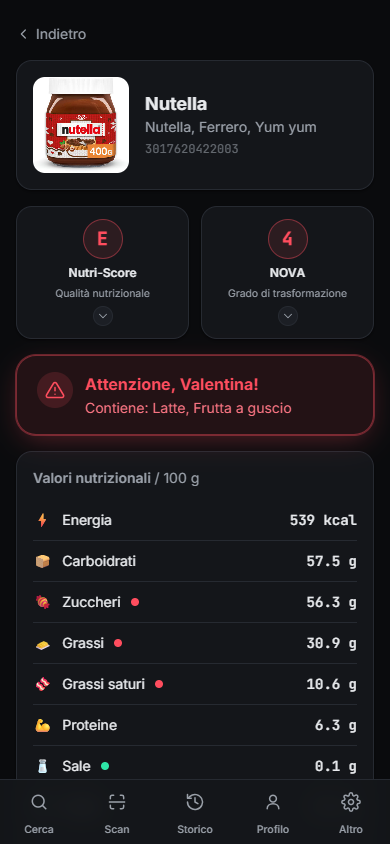
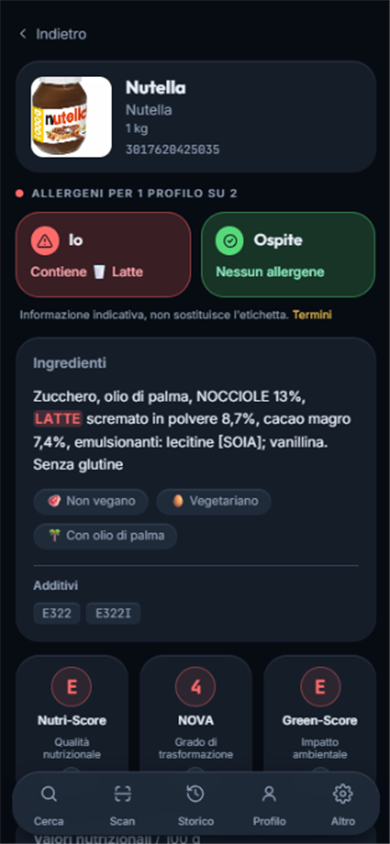
Repo vetrina: licenza MIT, README aggiornato, screenshot rifatti
- LICENSE (MIT)
- README: sezione struttura progetto + licenza, funzionalità multi-profilo aggiornata
- Screenshot rifatti con UI Inchiostro e verdetto multi-profilo
- package.json: versione allineata, metadati aggiunti
- Tono più neutro in CHANGELOG e commenti codice

diff --git a/src/data/allergenCatalog.ts b/src/data/allergenCatalog.ts
@@ -68,9 +68,11 @@ export function matchAllergens(
 // qui per il matching del verdetto, sia in IngredientsCard per l'highlight
 // visivo. Copre IT/EN oltre a FR/DE/ES/PT: i prodotti europei su OFF hanno
 // spesso il testo ingredienti in una lingua diversa da quella dell'app (es.
-// packaging multilingua OCR-ato in una sola lingua a caso, vedi nota su
-// ingredients_text_en in CLAUDE.md) — senza queste varianti il fallback
-// testuale mancherebbe comunque il match.
+// packaging multilingua OCR-ato in una sola lingua a caso — es. su Nutella
+// venduto in Francia, ingredients_text_en su OFF è spesso testo OCR
+// spazzatura non allineato al prodotto, quindi non va usato come fonte
+// primaria) — senza queste varianti il fallback testuale mancherebbe
+// comunque il match.
 export const ALLERGEN_KEYWORDS: Record<string, string[]> = {
   gluten: ['glutine', 'grano', 'frumento', 'orzo', 'segale', 'avena', 'farro', 'kamut', 'gluten', 'wheat', 'barley', 'rye', 'oat', 'blé', 'froment', 'orge', 'seigle', 'avoine', 'épeautre', 'weizen', 'gerste', 'roggen', 'hafer', 'dinkel', 'trigo', 'cebada', 'centeno', 'centeio', 'espelta'],
   crustaceans: ['crostacei', 'gambero', 'gamberi', 'granchio', 'aragosta', 'scampi', 'crustaceans', 'shrimp', 'crab', 'lobster', 'crustacés', 'crevette', 'homard', 'krebstiere', 'garnele', 'krabbe', 'hummer', 'crustáceos', 'camarón', 'camarão', 'cangrejo', 'caranguejo', 'langosta', 'lagosta'],

diff --git a/CHANGELOG.md b/CHANGELOG.md
@@ -14,7 +14,7 @@ Il verdetto con più profili attivi diventa una scheda per persona.
 
 ## v0.6.1 — 2026-08-18
 
-Il logo dell'app torna a essere il file originale, ovunque.
+Il logo dell'app torna a essere il file che ho disegnato, ovunque.
 
 - **Nomi accorciati ovunque**: il dominio passa da `allergyverify-web.vercel.app` a **https://allergyverify.vercel.app**, e il repo GitHub da `AllergyVerifyWebApp` ad `AllergyVerify`. Il suffisso `-web` distingueva la webapp dalla vecchia app iOS AllergyScan, che non è più un progetto attivo. Il vecchio indirizzo è stato rimosso, non lasciato in redirect: chi aveva la webapp installata dal vecchio indirizzo deve riaggiungerla, e i profili salvati là restano su quell'origine — il `localStorage` non attraversa i domini.
 
@@ -51,7 +51,7 @@ Redesign completo dell'interfaccia ("Inchiostro") — la pelle era ancora quella
 
 ## v0.5.3 — 2026-08-17
 
-- Sostituito il logo (avocado della vecchia app iOS) con il nuovo logo originale — spiga di grano, lente d'ingrandimento, badge d'allerta. Icone di sistema (favicon, apple-touch-icon, icone PWA) rigenerate dal nuovo artwork; cache-busting favicon/apple-touch-icon aggiornato a `-v3` (iOS/Safari le cachea per URL). Dentro l'interfaccia scura (sidebar, pagina Info, modale installa) usato `LogoTile`, un piccolo riquadro con bordo/ombra che incornicia l'immagine vera (un primo tentativo di ridisegnarla come icona piatta era irriconoscibile ed è stato scartato).
+- Sostituito il logo (avocado della vecchia app iOS) con il nuovo logo che ho disegnato — spiga di grano, lente d'ingrandimento, badge d'allerta. Icone di sistema (favicon, apple-touch-icon, icone PWA) rigenerate dal nuovo artwork; cache-busting favicon/apple-touch-icon aggiornato a `-v3` (iOS/Safari le cachea per URL). Dentro l'interfaccia scura (sidebar, pagina Info, modale installa) usato `LogoTile`, un piccolo riquadro con bordo/ombra che incornicia l'immagine vera (un primo tentativo di ridisegnarla come icona piatta era irriconoscibile ed è stato scartato).
 - Rebrand completato anche su repo GitHub (`AllergyVerifyWebApp`) e dominio Vercel (`allergyverify-web.vercel.app`), con redirect attivi dai vecchi indirizzi.
 
 ## v0.5.2 — 2026-08-06

diff --git a/README.md b/README.md
@@ -22,8 +22,18 @@ Scansiona o cerca un prodotto alimentare e scopri subito se contiene i tuoi alle
 - ⚠ **Verdetto allergie**: banner rosso/verde in base al profilo attivo (14 allergeni UE)
 - 📊 **Valori nutrizionali** per 100 g, con Nutri-Score / NOVA / Green-Score
 - 🕘 **Storico** di scansioni e ricerche
-- 👤 **Profili allergie** multipli, salvati solo sul dispositivo
+- 👤 **Profili allergie** multipli, salvati solo sul dispositivo — con più profili attivi il verdetto mostra una scheda per persona
 - 🌍 **Multilingua** italiano/inglese, con traduzione automatica degli ingredienti
+
+## Struttura del progetto
+
+```
+src/          codice sorgente (componenti, pagine, dati, i18n, hook)
+public/       asset statici serviti così come sono (icone PWA, favicon)
+assets/       sorgente grafica non pubblicata (logo)
+docs/         documentazione pubblica (screenshot del README)
+scripts/      script di supporto (rigenerazione icone dal logo sorgente)
+```
 
 ## Dati e privacy
 
@@ -49,3 +59,7 @@ Stack: Vite · React · TypeScript · Tailwind CSS 4 · react-router · @zxing/b
 Il sito è pubblicato su **Vercel**: https://allergyverify.vercel.app
 
 Deploy manuale dalla cartella del progetto: `npx vercel --prod`. Con la Git integration di Vercel attiva, ogni push su `main` viene pubblicato automaticamente (dopo che la CI su GitHub Actions ha verificato lint e build).
+
+## Licenza
+
+Distribuito con licenza MIT. Vedi [LICENSE](LICENSE).
